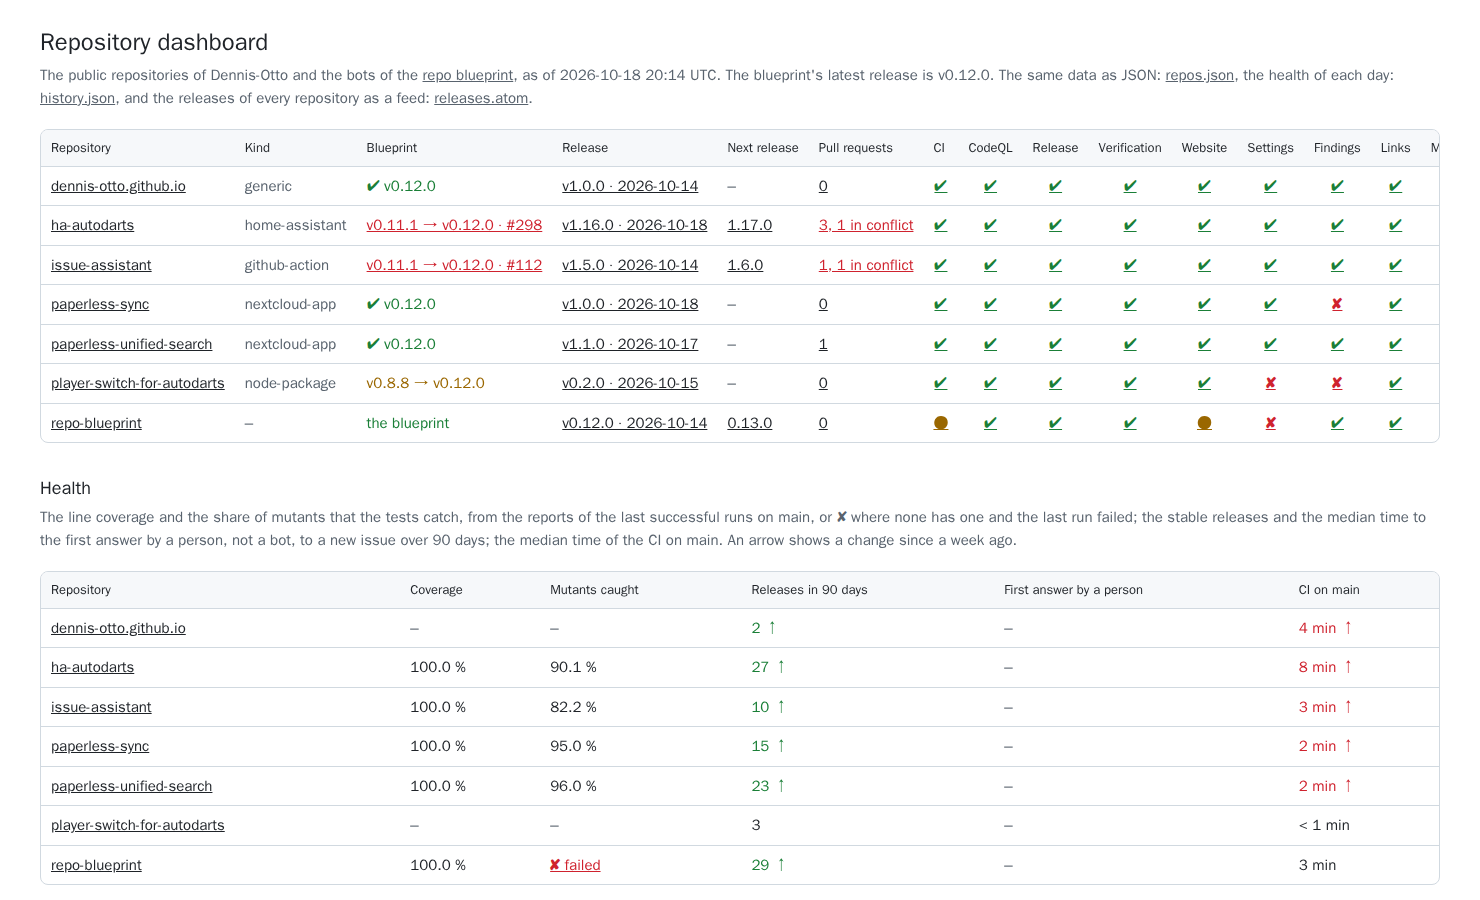
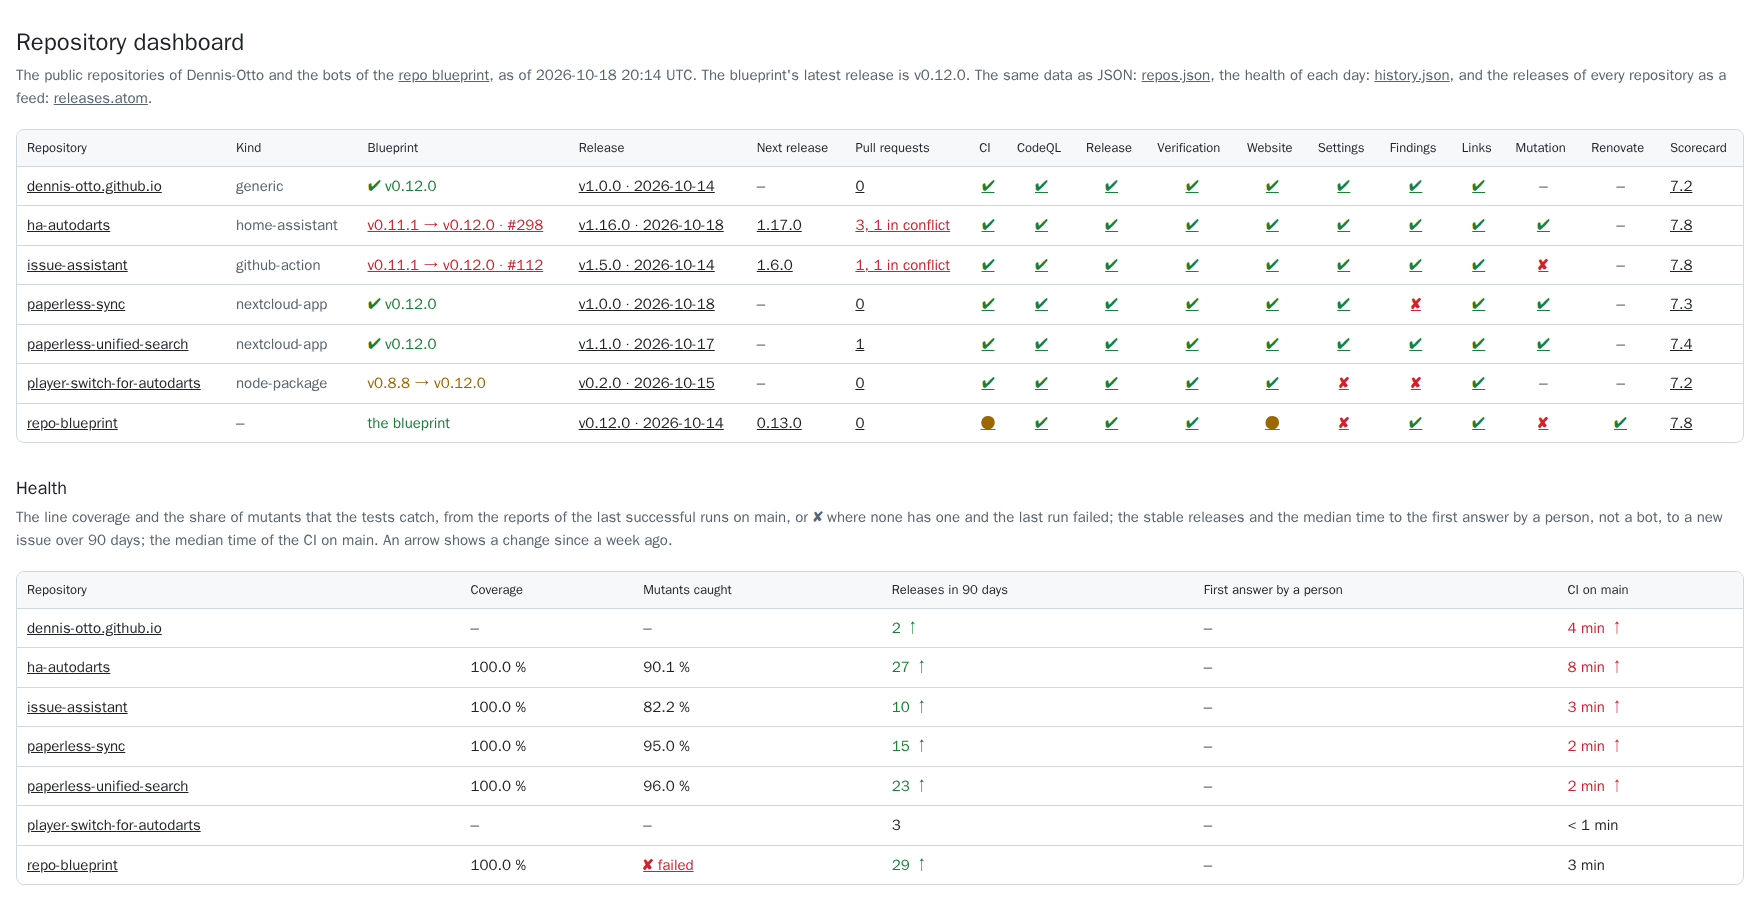
docs: show every column of the dashboard and one description everywhere
The dashboard page caps its width at 1400 px, below its main table, so the
picture lost the Mutation, Renovate and Scorecard columns at any window size.
scripts/docs-pictures.sh now fetches the page, lifts the cap in the copy the
browser draws and takes the picture 1760 px wide. AGENTS.md and the blueprint's
own answers in the tests now carry the description of .github/repository.toml.

diff --git a/tests/test_template.py b/tests/test_template.py
@@ -791,7 +791,7 @@ def test_the_blueprint_follows_its_own_template(tmp_path: Path) -> None:
         tmp_path,
         project_name="Repo Blueprint",
         project_slug="repo-blueprint",
-        description="A Copier template for GitHub repositories, with tests, releases, security checks and bots built in, for seven kinds of projects.",
+        description="Copier template for self-maintaining GitHub repos (Python, Home Assistant/HACS, Nextcloud apps, GitHub Actions, Node/TypeScript, containers): CI, signed SLSA L3 releases, Renovate, OpenSSF Scorecard, settings as code, and a bot that rolls out every template update.",
         project_type="github-action",
         python_package="blueprint",
         license="MIT-0",

diff --git a/AGENTS.md b/AGENTS.md
@@ -1,6 +1,6 @@
 # Instructions for coding agents
 
-Repo Blueprint: a Copier template for GitHub repositories, with tests, releases, security checks and bots built in, for seven kinds of projects.
+Repo Blueprint: Copier template for self-maintaining GitHub repos (Python, Home Assistant/HACS, Nextcloud apps, GitHub Actions, Node/TypeScript, containers): CI, signed SLSA L3 releases, Renovate, OpenSSF Scorecard, settings as code, and a bot that rolls out every template update.
 
 These are the rules for coding agents, such as Claude Code, Codex, GitHub Copilot and Cursor, that change the blueprint; people find the same rules in [CONTRIBUTING.md](CONTRIBUTING.md). Every repository made from the blueprint gets an `AGENTS.md` of its own from [`template/AGENTS.md.jinja`](template/AGENTS.md.jinja). The notes on how the blueprint works are in [.github/agents.project.md](.github/agents.project.md): read them as well.
 
